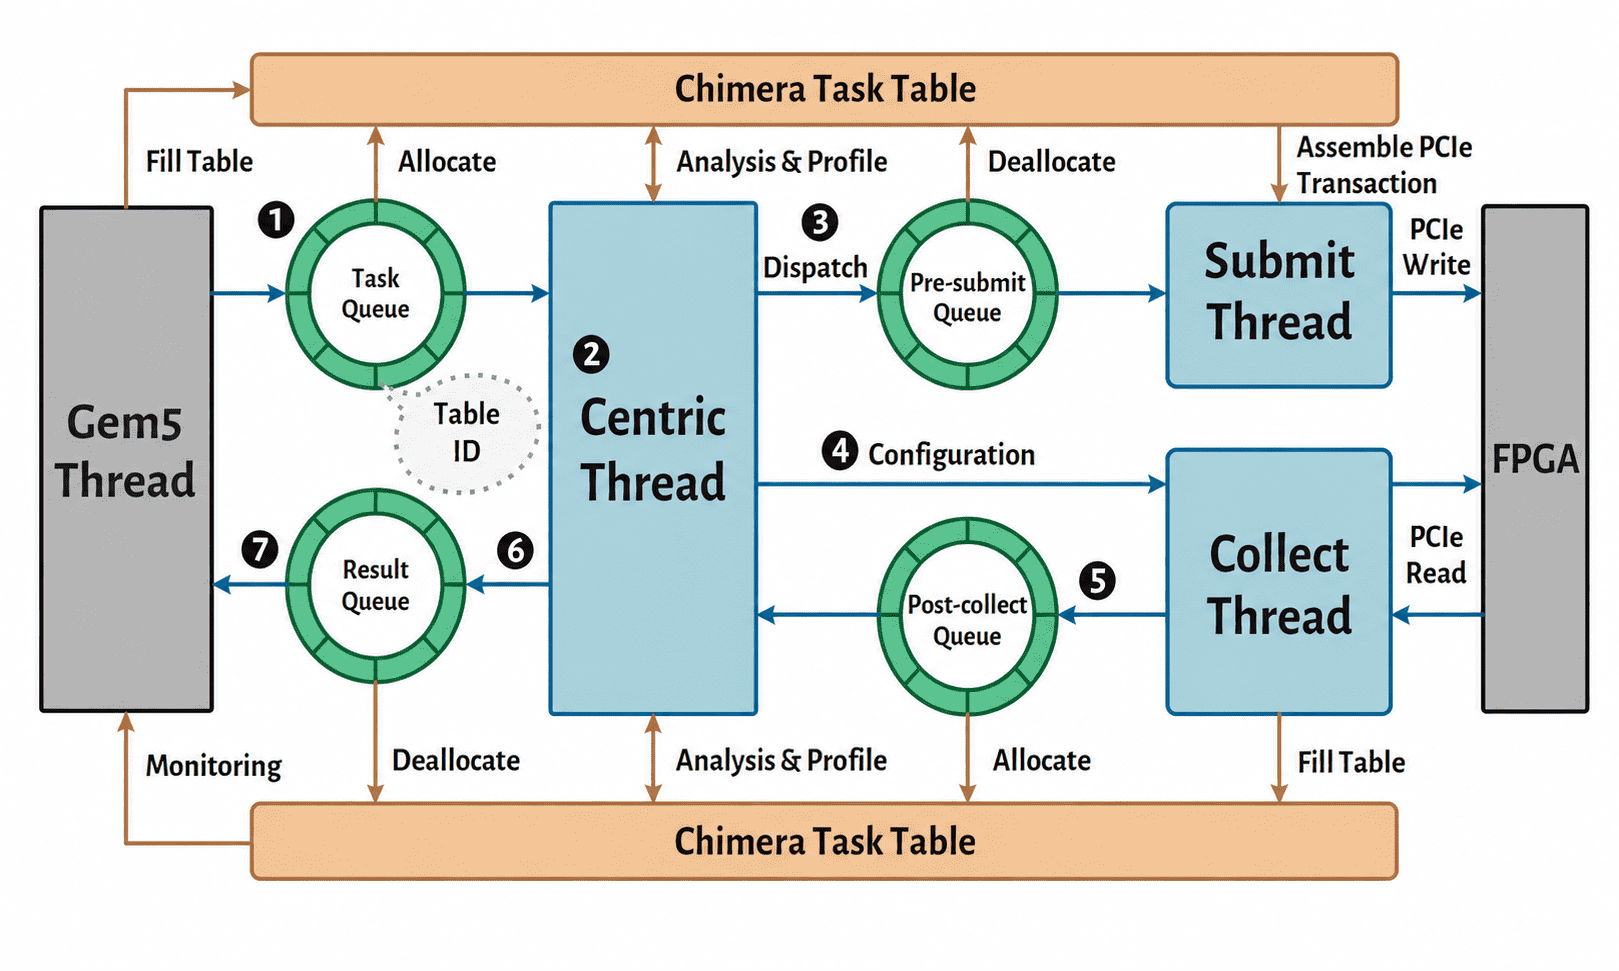
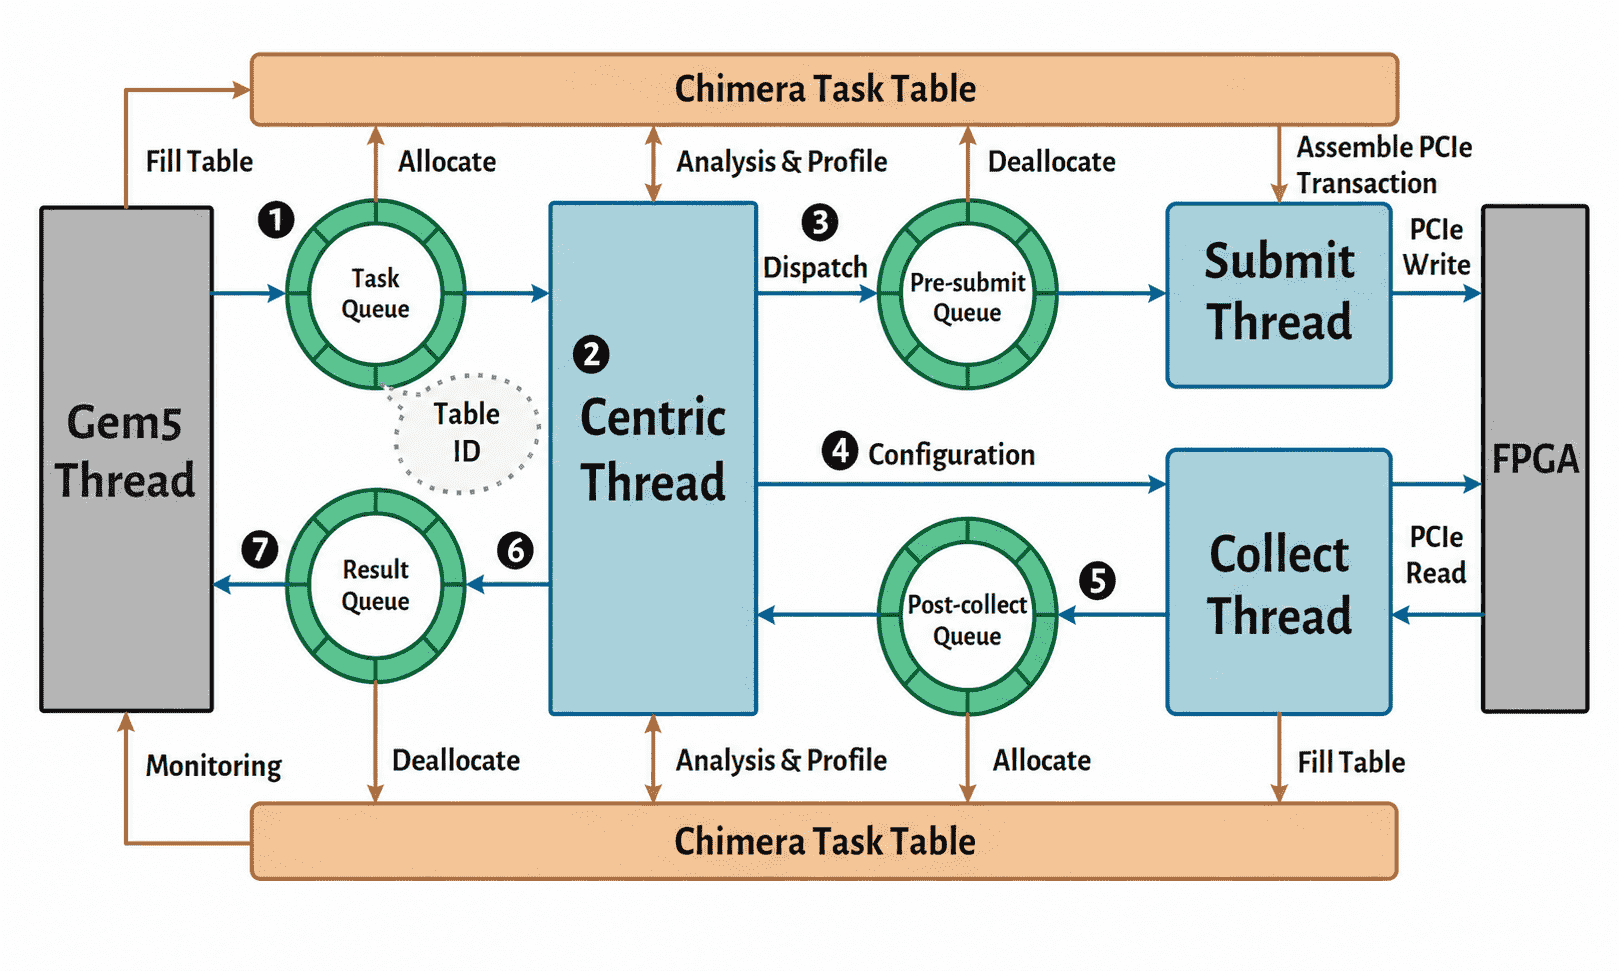
update publications

diff --git a/_pages/zh.md b/_pages/zh.md
@@ -18,7 +18,7 @@ lang: zh
 我是付超，主要研究方向包括计算机体系结构、片上缓存管理、硬件事务内存、NoC 互连与微体系结构优化。我的工作关注如何通过软硬件协同、缓存与一致性协议设计，以及面向新型应用负载的体系结构机制提升系统性能与能效。
 
 ## 代表性论文
-<div class='paper-box'><div class='paper-box-image'><div><div class="badge">ISCA 2026</div><img src='{{ "/images/500x300.png" | relative_url }}' alt="TDMSim publication preview" width="100%"></div></div>
+<div class='paper-box'><div class='paper-box-image'><div><div class="badge">ISCA 2026</div><img src='{{ "/images/isca_2026.png" | relative_url }}' alt="TDMSim publication preview" width="100%"></div></div>
 <div class='paper-box-text' markdown="1">
 
 [TDMSim: Enabling High-Density and Energy-Efficient GPU DRAM Caches with 2D-Materials for Data-Intensive Applications](https://conferences.computer.org/iscapub26/pdfs/5065-3nexm57sBmVa6MJtFTiSrb/506501b255/506501b255.pdf)
@@ -29,7 +29,7 @@ lang: zh
 </div>
 </div>
 
-<div class='paper-box'><div class='paper-box-image'><div><div class="badge">FPL 2024</div><img src='{{ "/images/500x300.png" | relative_url }}' alt="Chimera publication preview" width="100%"></div></div>
+<div class='paper-box'><div class='paper-box-image'><div><div class="badge">FPL 2024</div><img src='{{ "/images/fpl_2024.png" | relative_url }}' alt="Chimera publication preview" width="100%"></div></div>
 <div class='paper-box-text' markdown="1">
 
 [Chimera: A co-simulation framework combining with gem5 and FPGA platform for efficient verification](https://ieeexplore.ieee.org/abstract/document/10705631/)
@@ -40,7 +40,7 @@ lang: zh
 </div>
 </div>
 
-<div class='paper-box'><div class='paper-box-image'><div><div class="badge">TPDS</div><img src='{{ "/images/500x300.png" | relative_url }}' alt="Losatm publication preview" width="100%"></div></div>
+<div class='paper-box'><div class='paper-box-image'><div><div class="badge">TPDS 2022</div><img src='{{ "/images/tpds_2022.png" | relative_url }}' alt="Losatm publication preview" width="100%"></div></div>
 <div class='paper-box-text' markdown="1">
 
 [Losatm: A hardware transactional memory integrated with a low-overhead scenario-awareness conflict manager](https://ieeexplore.ieee.org/abstract/document/9893383)
@@ -51,7 +51,7 @@ lang: zh
 </div>
 </div>
 
-<div class='paper-box'><div class='paper-box-image'><div><div class="badge">TCAD</div><img src='{{ "/images/500x300.png" | relative_url }}' alt="Homonoia publication preview" width="100%"></div></div>
+<div class='paper-box'><div class='paper-box-image'><div><div class="badge">TAD 2025</div><img src='{{ "/images/tcad_2025_2.png" | relative_url }}' alt="Homonoia publication preview" width="100%"></div></div>
 <div class='paper-box-text' markdown="1">
 
 [Homonoia: Reinventing underutilized cross-level cache resource using reinforcement learning](https://ieeexplore.ieee.org/abstract/document/11363629)
@@ -62,7 +62,7 @@ lang: zh
 </div>
 </div>
 
-<div class='paper-box'><div class='paper-box-image'><div><div class="badge">TCAD</div><img src='{{ "/images/500x300.png" | relative_url }}' alt="PCMT publication preview" width="100%"></div></div>
+<div class='paper-box'><div class='paper-box-image'><div><div class="badge">TAD 2025</div><img src='{{ "/images/tcad_2025_1.png" | relative_url }}' alt="PCMT publication preview" width="100%"></div></div>
 <div class='paper-box-text' markdown="1">
 
 [PCMT: Prioritizing Coherence Message Types for NoC Protocol-level Deadlock Freedom](https://ieeexplore.ieee.org/abstract/document/11142878)
@@ -73,7 +73,7 @@ Yufan Jia, Zhiyuan Zhang, **Chao Fu(corresponding author)**, Li Wan, Jun Han
 </div>
 </div>
 
-<div class='paper-box'><div class='paper-box-image'><div><div class="badge">TACO</div><img src='{{ "/images/500x300.png" | relative_url }}' alt="Thoth publication preview" width="100%"></div></div>
+<div class='paper-box'><div class='paper-box-image'><div><div class="badge">TACO 2026</div><img src='{{ "/images/taco_2026.png" | relative_url }}' alt="Thoth publication preview" width="100%"></div></div>
 <div class='paper-box-text' markdown="1">
 
 [Thoth: Uncovering Data-Dependent Memory Access Patterns via Annotation-Directed Load Sampling](https://dl.acm.org/doi/pdf/10.1145/3806835)

diff --git a/_pages/about.md b/_pages/about.md
@@ -28,7 +28,7 @@ My research interest includes neural machine translation and computer vision.
 </p>
 
 
-<div class='paper-box'><div class='paper-box-image'><div><div class="badge">ISCA 2026</div><img src='{{ "/images/500x300.png" | relative_url }}' alt="TDMSim publication preview" width="100%"></div></div>
+<div class='paper-box'><div class='paper-box-image'><div><div class="badge">ISCA 2026</div><img src='{{ "/images/isca_2026.png" | relative_url }}' alt="TDMSim publication preview" width="100%"></div></div>
 <div class='paper-box-text' markdown="1">
 
 [TDMSim: Enabling High-Density and Energy-Efficient GPU DRAM Caches with 2D-Materials for Data-Intensive Applications](https://conferences.computer.org/iscapub26/pdfs/5065-3nexm57sBmVa6MJtFTiSrb/506501b255/506501b255.pdf)
@@ -52,7 +52,7 @@ My research interest includes neural machine translation and computer vision.
 </div>
 </div>
 
-<div class='paper-box'><div class='paper-box-image'><div><div class="badge">TPDS 2022</div><img src='{{ "/images/500x300.png" | relative_url }}' alt="Losatm publication preview" width="100%"></div></div>
+<div class='paper-box'><div class='paper-box-image'><div><div class="badge">TPDS 2022</div><img src='{{ "/images/tpds_2022.png" | relative_url }}' alt="Losatm publication preview" width="100%"></div></div>
 <div class='paper-box-text' markdown="1">
 
 [Losatm: A hardware transactional memory integrated with a low-overhead scenario-awareness conflict manager](https://ieeexplore.ieee.org/abstract/document/9893383)
@@ -64,7 +64,7 @@ My research interest includes neural machine translation and computer vision.
 </div>
 </div>
 
-<div class='paper-box'><div class='paper-box-image'><div><div class="badge">TAD 2025</div><img src='{{ "/images/500x300.png" | relative_url }}' alt="Homonoia publication preview" width="100%"></div></div>
+<div class='paper-box'><div class='paper-box-image'><div><div class="badge">TAD 2025</div><img src='{{ "/images/tcad_2025_2.png" | relative_url }}' alt="Homonoia publication preview" width="100%"></div></div>
 <div class='paper-box-text' markdown="1">
 
 [Homonoia: Reinventing underutilized cross-level cache resource using reinforcement learning](https://ieeexplore.ieee.org/abstract/document/11363629)
@@ -76,7 +76,7 @@ My research interest includes neural machine translation and computer vision.
 </div>
 </div>
 
-<div class='paper-box'><div class='paper-box-image'><div><div class="badge">TAD 2025</div><img src='{{ "/images/500x300.png" | relative_url }}' alt="PCMT publication preview" width="100%"></div></div>
+<div class='paper-box'><div class='paper-box-image'><div><div class="badge">TAD 2025</div><img src='{{ "/images/tcad_2025_1.png" | relative_url }}' alt="PCMT publication preview" width="100%"></div></div>
 <div class='paper-box-text' markdown="1">
 
 [PCMT: Prioritizing Coherence Message Types for NoC Protocol-level Deadlock Freedom](https://ieeexplore.ieee.org/abstract/document/11142878)